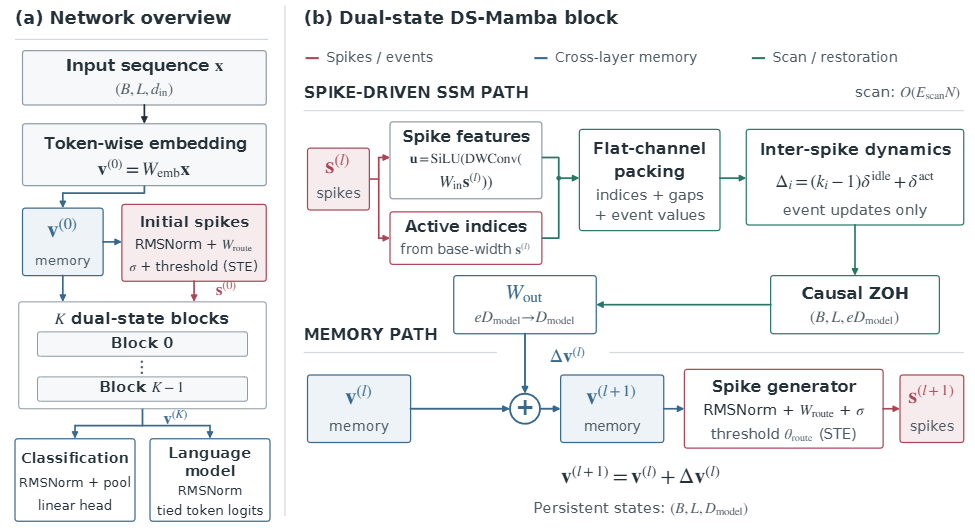
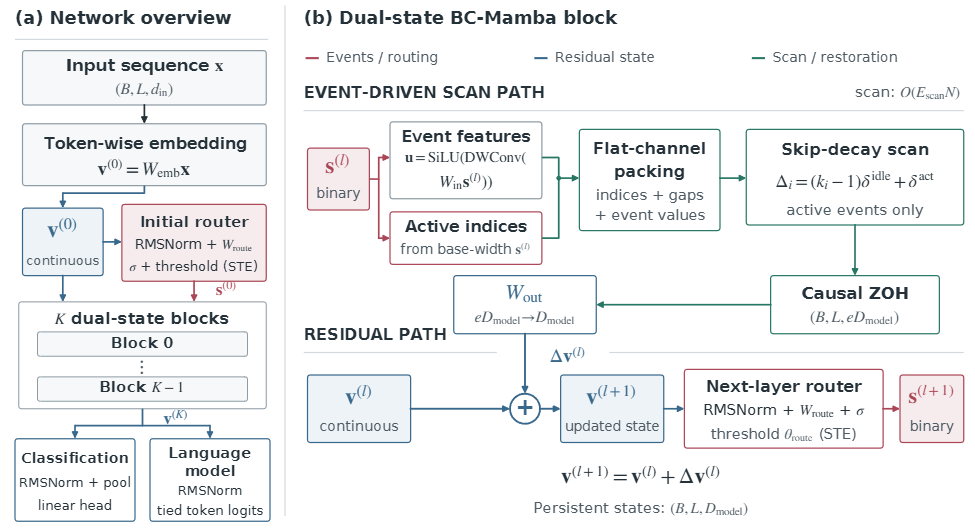
Use BC_mamba naming and update architecture figure

diff --git a/README.md b/README.md
@@ -4,15 +4,15 @@ Chinese version: [README_zh.md](README_zh.md)
 
 **Binary-Compressed Selective Scans for Training-Efficient Sequence Modeling**
 
-BC_mamba is research code for event-driven sequence modeling with sparse, binary-compressed selective scans. The accompanying manuscript calls the architecture **Dual-State Spiking Mamba (DS-Mamba)**. The repository name remains **BC_mamba**.
+BC_mamba is a research codebase for event-driven sequence modeling with sparse, binary-compressed selective scans.
 
-![BC_mamba architecture: network overview and dual-state DS-Mamba block](assets/bc_mamba_architecture.png)
+![BC_mamba architecture: network overview and dual-state BC_mamba block](assets/bc_mamba_architecture.png)
 
 *Architecture overview. The left panel shows the full sequence model; the right panel shows the event-driven scan and continuous-memory paths inside one block.*
 
 ### What the model does
 
-DS-Mamba separates two roles that are often combined in sequence models:
+BC_mamba separates two roles that are often combined in sequence models:
 
 - **Binary spike state at layer l**: learned threshold routing selects active channel-position events and supplies the features used by the recurrent scan. A straight-through estimator supports training through the binary threshold.
 - **Continuous memory state at layer l**: residual updates accumulate restored scan outputs across network depth and provide the representation used to generate the next layer's spikes.
@@ -23,7 +23,7 @@ Inside a block, active events are packed into flat channel streams. The selectiv
 
 This code package contains the model implementation and training scripts for the five Long Range Arena (LRA) tasks: ListOps, Text, Retrieval, Image, and Pathfinder. The manuscript also reports Speech Commands (SC10) and WikiText-103 experiments, but those experiment pipelines are not included in this LRA code archive.
 
-The manuscript reports an LRA average accuracy of **70.15%** for DS-Mamba, compared with **70.17%** for the S6 reference. Across the five LRA tasks, it reports **35-60% lower per-epoch training time** and **27-52% lower peak GPU memory** than S6. These are manuscript-reported measurements; runtime and memory depend on hardware and the experiment setup.
+The manuscript reports an LRA average accuracy of **70.15%** for BC_mamba, compared with **70.17%** for the S6 reference. Across the five LRA tasks, it reports **35-60% lower per-epoch training time** and **27-52% lower peak GPU memory** than S6. It also reports **96.00% accuracy on SC10** and a **25.03 perplexity** for a 130M-parameter WikiText-103 model trained from scratch; the language-modeling result demonstrates feasibility, not superiority or training-efficiency gains at that scale. These are manuscript-reported measurements; runtime and memory depend on hardware and the experiment setup.
 
 ### Repository layout
 
@@ -77,7 +77,7 @@ Run [train_lra.py](train_lra.py) --help to see all options. Training outputs are
 
 ### Manuscript
 
-*Dual-State Spiking Mamba: Event-Driven State Space Modeling for Efficient Sequence Learning.* TNNLS 2027 submission.
+*BC-Mamba: Binary-Compressed Selective Scans for Training-Efficient Sequence Modeling.*
 
 ### License
 
